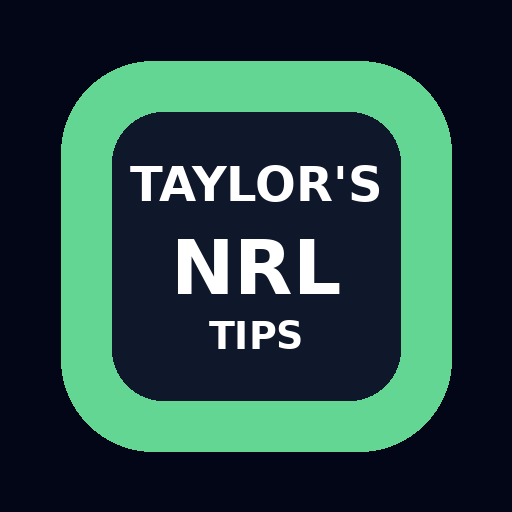
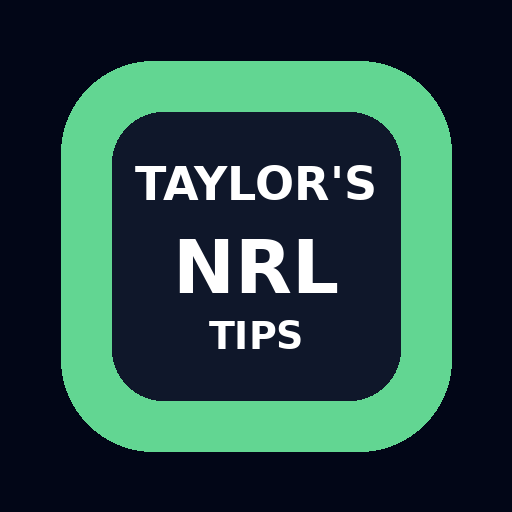
Add files via upload

diff --git a/public/weekly/sw.js b/public/weekly/sw.js
@@ -1,0 +1,7 @@
+self.addEventListener("install", () => self.skipWaiting());
+self.addEventListener("activate", (event) => {
+  event.waitUntil(
+    caches.keys().then(keys => Promise.all(keys.map(key => caches.delete(key)))).then(() => self.clients.claim())
+  );
+});
+self.addEventListener("fetch", () => {});